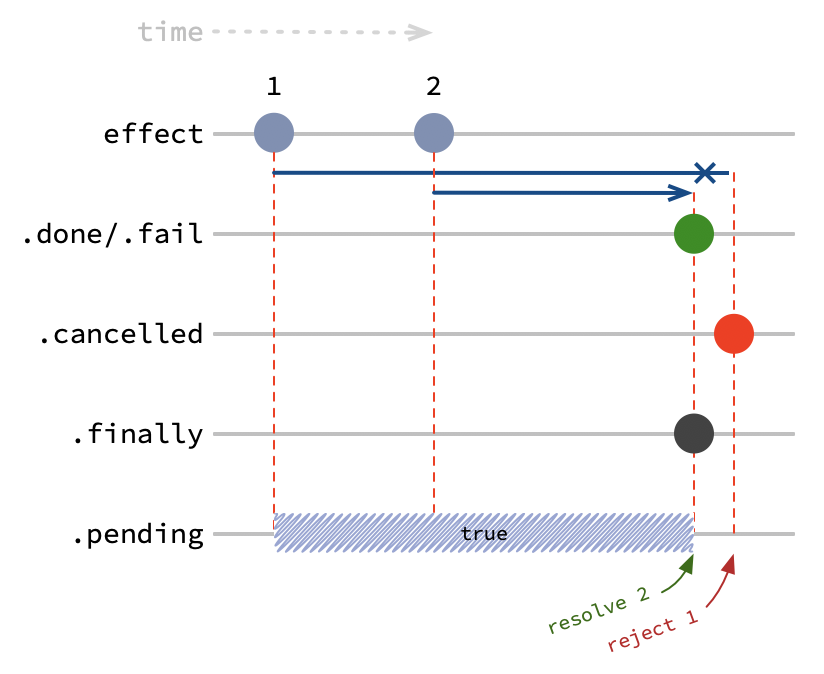
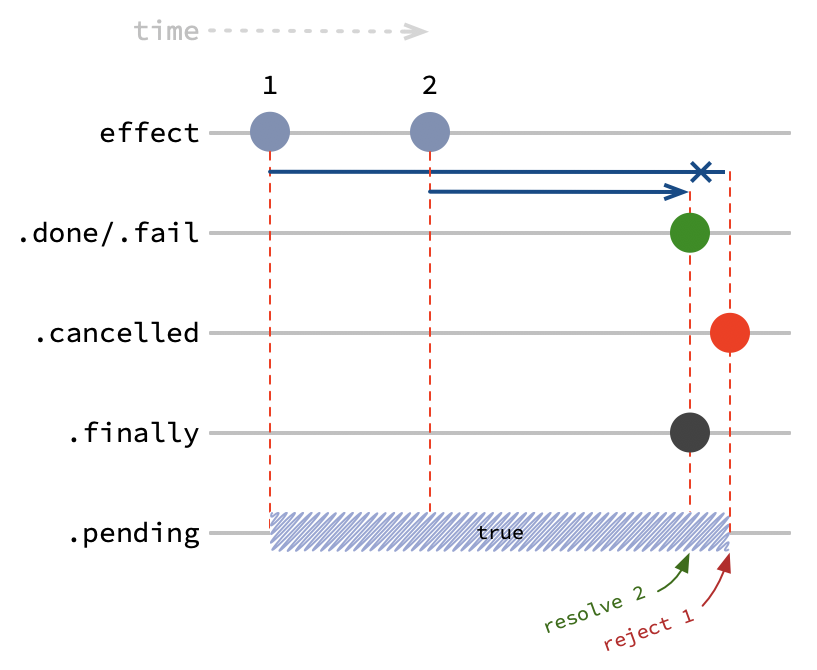
Fix RACE image

diff --git a/README.md b/README.md
@@ -114,7 +114,7 @@ Second effect will not be launched until all other pending effects are finished.
 
 ### RACE
 
-<img width="412" alt="RACE" src="https://github.com/yumauri/effector-reeffect/blob/master/images/RACE.png?raw=true">
+<img width="409" alt="RACE" src="https://github.com/yumauri/effector-reeffect/blob/master/images/RACE.png?raw=true">
 
 First finished effect will win the race and cancel all other pending effects with `CancelledError`.
 
